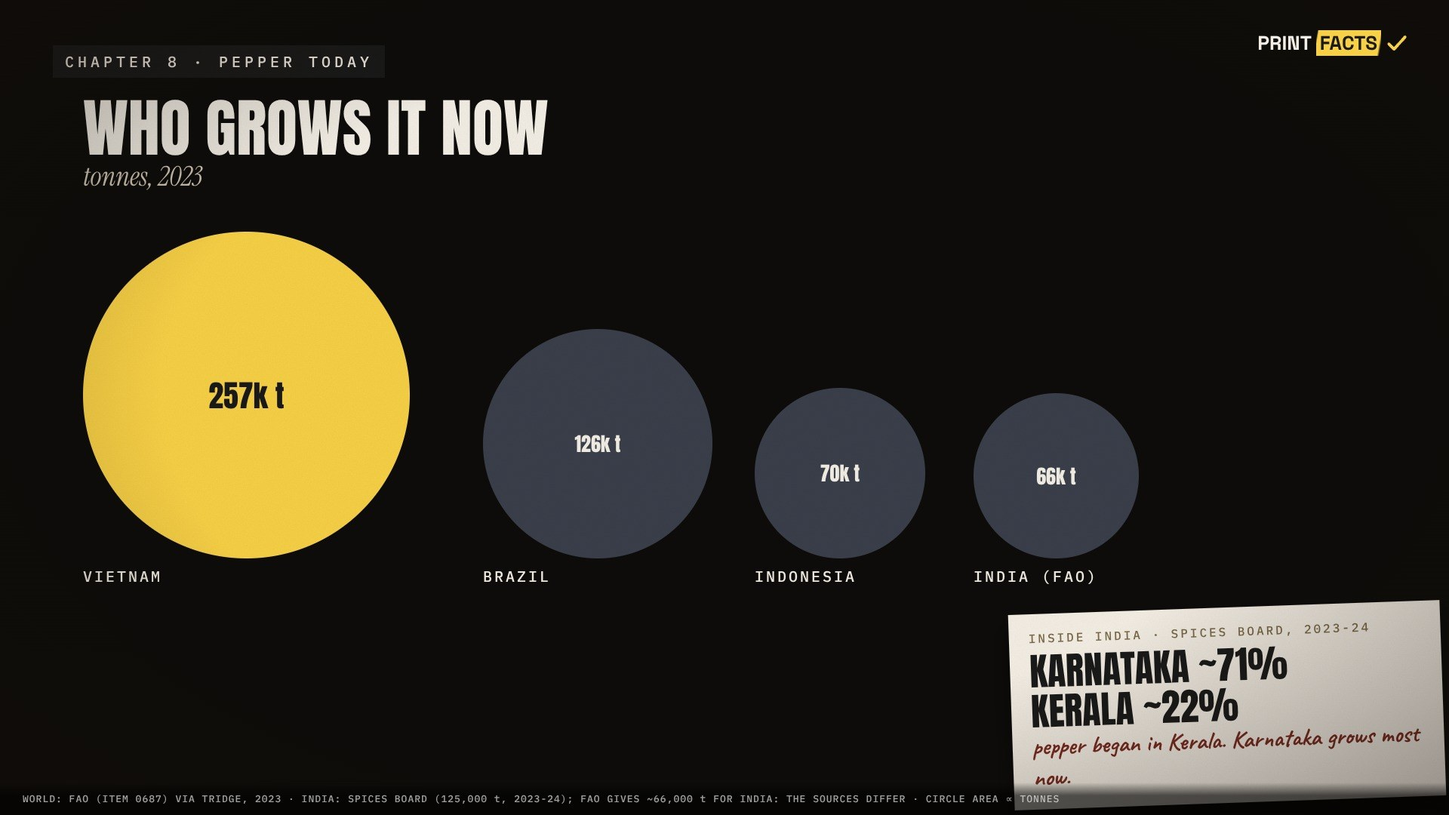
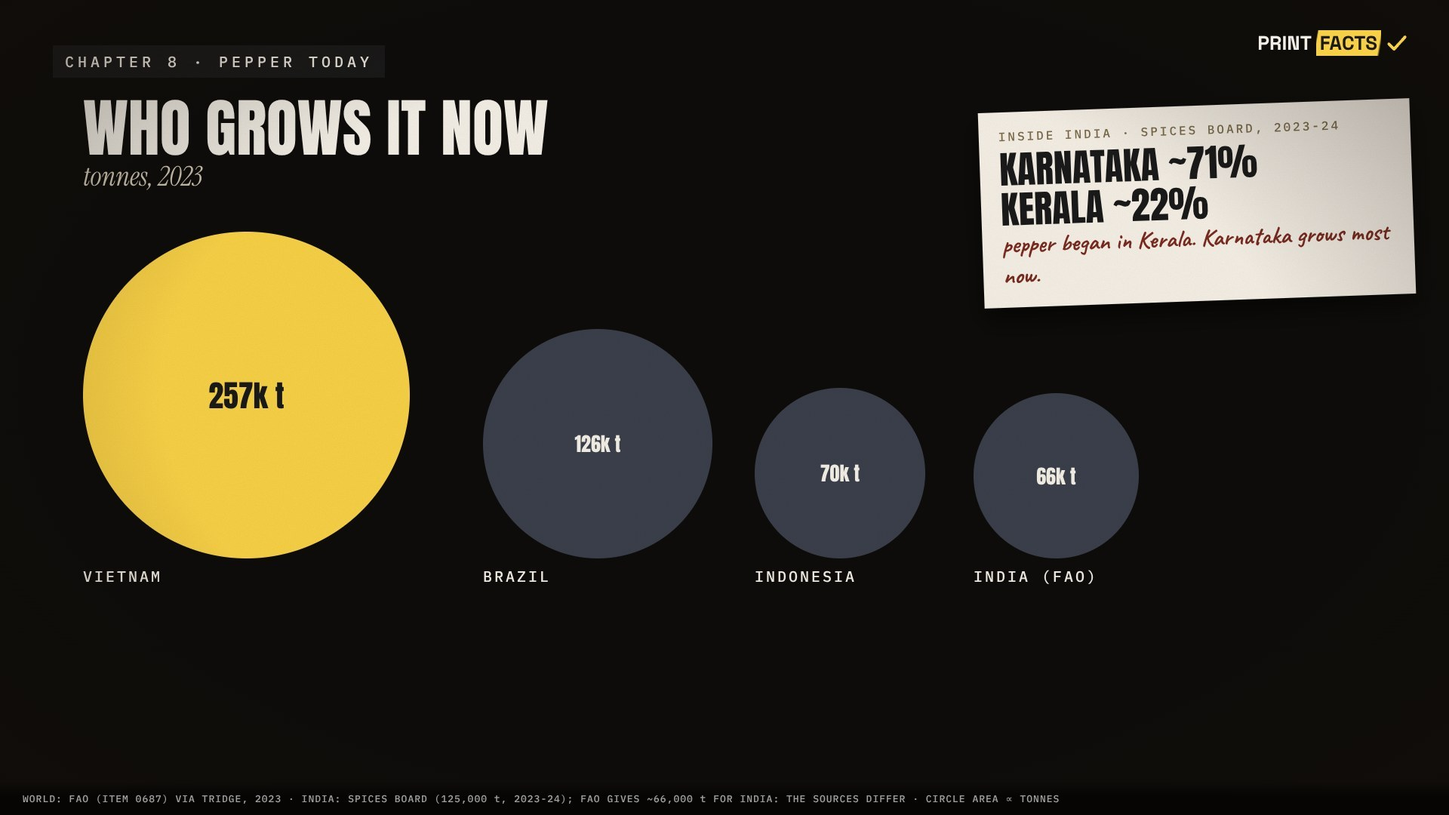
Pepper film: timeline engine on every frame (render any moment with ?t=), build-up animation for 17 shots, motion sheets M_1-3, India card moved off the circles
Claude-Session: https://claude.ai/code/session_017xrBtfYjuM4LWtQjRrahAL

Changed region(s): [[0.6562, 0.1222, 1.0, 0.3972], [0.6875, 0.7333, 1.0, 1.0]]

diff --git a/creatorforge/films/pepper-money-2026-11-15/frames.py b/creatorforge/films/pepper-money-2026-11-15/frames.py
@@ -1,4 +1,4 @@
-"""Key frames (16:9) for "Pepper Was Money", draft 3 (Vox x Johnny Harris). Numbers only from dossier.json."""
+"""Key frames (16:9) for "Pepper Was Money", draft 4; every piece carries a timeline entry (render any moment with ?t=0..1) (Vox x Johnny Harris). Numbers only from dossier.json."""
 import json
 import math
 import random
@@ -35,7 +35,30 @@ def page(body, bg=PARCH, src="", dark=False, logo=True):
             + (f'<div class="a" style="right:56px;top:44px;z-index:90">{logo_d(1.0, dark)}</div>' if logo else "")
             + f'<div class="a" style="left:0;right:0;bottom:0;padding:12px 30px;z-index:90;{"background:linear-gradient(transparent,rgba(0,0,0,.6) 40%)" if dark else ""};'
               f'font:500 13px/1.5 Plex;letter-spacing:1px;color:{col}">{src}</div>'
-            '<script>document.fonts.ready.then(()=>window.READY=window.READY||!window.WAIT)</script></body></html>')
+            + ANIM_JS + '<script>document.fonts.ready.then(()=>window.READY=window.READY||!window.WAIT)</script></body></html>')
+
+
+ANIM_JS = """<script>(function(){function run(){const q=new URLSearchParams(location.search);const T=q.has('t')?parseFloat(q.get('t')):1;
+const E=x=>1-Math.pow(1-x,3);
+document.querySelectorAll('[data-anim]').forEach(el=>{const [k,s0,e0]=el.dataset.anim.split(' ');const s=+s0,e=+e0;
+const p=e>s?Math.min(1,Math.max(0,(T-s)/(e-s))):(T>=s?1:0);const v=E(p);const st=el.style;
+if(k==='fade')st.opacity=v;
+else if(k==='up'){st.opacity=Math.min(1,p*2);st.transform=`translateY(${(1-v)*60}px)`}
+else if(k==='drop'){st.opacity=p>0?1:0;st.transform=`translateY(${-(1-v)*140}px)`}
+else if(k==='pop'){st.opacity=Math.min(1,p*3);st.transform=`scale(${.4+.6*v+Math.sin(p*Math.PI)*.08})`}
+else if(k==='slam'){st.opacity=p>0?1:0;st.transform=`scale(${1+(1-p)*.6})`}
+else if(k==='snap')st.opacity=p>=1?1:0;
+else if(k==='grow'){st.transformOrigin='50% 100%';st.transform=`scaleY(${v})`}
+else if(k==='wipe')st.clipPath=`inset(-20px ${(1-v)*100}% -20px -20px)`;
+else if(k==='draw')el.querySelectorAll('[pathLength]').forEach(pa=>{pa.style.strokeDasharray=1;pa.style.strokeDashoffset=1-v;pa.style.opacity=p>0?1:0});
+else if(k==='count'){el.textContent=Math.round(+el.dataset.to*v).toLocaleString('en-US')}
+else if(k==='fill'){const ch=el.children;const n=Math.round(ch.length*v);for(let i=0;i<ch.length;i++)ch[i].style.opacity=i<n?1:0}});}
+document.addEventListener('DOMContentLoaded',run);})()</script>"""
+
+
+def A(html, x, y, anim, extra=""):
+    """A positioned piece with a timeline entry: anim = "kind start end", t from 0 to 1 over the shot."""
+    return f'<div class="a" data-anim="{anim}" style="left:{x}px;top:{y}px;{extra}">{html}</div>'
 
 
 def a(html, x, y, extra=""):
@@ -72,27 +95,27 @@ cut = lambda f, w, extra="": f'<img src="/assets/{f}" style="width:{w}px;display
 
 # ---- cold open --------------------------------------------------------------------------------------------------------
 put("01_jar", page(a(img("corns_spoon.jpg", 1920, 1080, "filter:brightness(.6) contrast(1.05)"), 0, 0)
-                   + a('<div style="font:700 64px/1.1 Caveat;color:#F3EFE6;width:900px;transform:rotate(-2deg)">I\'d never given it a second thought.</div>', 1000, 760)
-                   + a(f'<div style="font:500 22px Plex;letter-spacing:4px;color:{SIG}">ON ALMOST EVERY TABLE IN INDIA</div>', 1004, 700),
+                   + A('<div style="font:700 64px/1.1 Caveat;color:#F3EFE6;width:900px;transform:rotate(-2deg)">I\'d never given it a second thought.</div>', 1000, 760, "fade .35 .55")
+                   + A(f'<div style="font:500 22px Plex;letter-spacing:4px;color:{SIG}">ON ALMOST EVERY TABLE IN INDIA</div>', 1004, 700, "fade .1 .25"),
                    "#000", "PHOTO: PIXABAY", dark=True))
 
 ransom_rows = [("5,000 lb", "of gold"), ("30,000 lb", "of silver"), ("4,000", "silk tunics"), ("3,000", "scarlet skins"), ("3,000 lb", "of pepper")]
-rows = "".join(f'<div style="display:flex;gap:28px;font:400 46px/1.55 Playfair;color:#2A2118"><span style="width:250px;text-align:right">{q}</span>'
-               f'<span>{hl(w) if "pepper" in w else w}</span></div>' for q, w in ransom_rows)
+rows = "".join(f'<div data-anim="up {.14 + i * .12:.2f} {.24 + i * .12:.2f}" style="display:flex;gap:28px;font:400 46px/1.55 Playfair;color:#2A2118"><span style="width:250px;text-align:right">{q}</span>'
+               f'<span>{hl(w) if "pepper" in w else w}</span></div>' for i, (q, w) in enumerate(ransom_rows))
 doc = (f'<div style="width:880px;background:#F4ECD8;padding:56px 64px;box-shadow:0 30px 60px rgba(0,0,0,.6);transform:rotate(-1.5deg)">'
        f'<div style="font:500 18px Plex;letter-spacing:4px;color:#7A6A4A">ROME · 408 CE · THE PRICE OF PEACE</div>'
        f'<div style="font:400 40px/1.3 ISerif;color:#2A2118;margin:16px 0 26px">The city agreed to pay the besieging army:</div>{rows}'
        f'<div style="font:500 15px Plex;color:#7A6A4A;margin-top:24px">From Zosimus, <i>New History</i> 5.41 (Greek, c. 500 CE); English after the 1814 translation and J. B. Bury. Page set in the studio.</div></div>')
-put("02_ransom", page(a(f'<div style="width:1920px;height:1080px;{DESK}"></div>', 0, 0) + a(doc, 120, 150)
-                      + f'<svg class="a" style="left:0;top:0;z-index:30" width="1920" height="1080"><path d="{wobble(590, 652, 230, 40, 4)}" fill="none" stroke="{RED}" stroke-width="6"/></svg>'
-                      + a(cut("scale.png", 640), 1150, 260) + a(cut("corns_spoon.jpg", 1, "display:none"), 0, 0)
-                      + a(f'<div style="font:700 56px/1.05 Caveat;color:{SIG};width:520px;transform:rotate(-3deg)">pepper.<br>in a ransom.<br>next to gold.</div>', 150, 860),
+put("02_ransom", page(a(f'<div style="width:1920px;height:1080px;{DESK}"></div>', 0, 0) + A(doc, 120, 150, "up 0 .12")
+                      + f'<svg class="a" data-anim="draw .74 .86" style="left:0;top:0;z-index:30" width="1920" height="1080"><path d="{wobble(590, 652, 230, 40, 4)}" pathLength="1" fill="none" stroke="{RED}" stroke-width="6"/></svg>'
+                      + A(cut("scale.png", 640), 1150, 260, "fade 0 .15") + a(cut("corns_spoon.jpg", 1, "display:none"), 0, 0)
+                      + A(f'<div style="font:700 56px/1.05 Caveat;color:{SIG};width:520px;transform:rotate(-3deg)">pepper.<br>in a ransom.<br>next to gold.</div>', 150, 860, "fade .88 1"),
                       "#2A1D12", "RANSOM LIST: ZOSIMUS, NEW HISTORY 5.41 (408 CE) · PHOTO: PIXABAY", dark=True))
 
 put("03_title", page(a(f'<div style="width:1920px;height:1080px;{DESK}"></div>', 0, 0)
-                     + a(cut("scale.png", 760), 580, 120)
-                     + a(f'<div style="font:400 210px/0.86 Anton;color:#F3EFE6;text-align:center;width:1920px;text-shadow:0 10px 40px rgba(0,0,0,.6)">PEPPER<br>WAS {hl("<span style=\'color:#141414\'>MONEY</span>")}</div>', 0, 330)
-                     + a('<div style="font:400 44px ISerif;color:#E8DCC2;text-align:center;width:1920px">so how does a spice become money?</div>', 0, 900),
+                     + A(cut("scale.png", 760), 580, 120, "fade 0 .25")
+                     + A(f'<div style="font:400 210px/0.86 Anton;color:#F3EFE6;text-align:center;width:1920px;text-shadow:0 10px 40px rgba(0,0,0,.6)">PEPPER<br>WAS {hl("<span style=\'color:#141414\'>MONEY</span>")}</div>', 0, 330, "slam .2 .24")
+                     + A('<div style="font:400 44px ISerif;color:#E8DCC2;text-align:center;width:1920px">so how does a spice become money?</div>', 0, 900, "fade .6 .8"),
                      "#2A1D12", "PHOTO: PIXABAY", dark=True))
 
 # ---- 1: the map table ------------------------------------------------------------------------------------------------
@@ -101,10 +124,11 @@ pin = lambda x, y: (f'<circle cx="{x}" cy="{y}" r="13" fill="{RED}"/><circle cx=
 string = f'<path d="M820 640 Q 700 520 520 420 Q 430 330 360 250" fill="none" stroke="{RED}" stroke-width="4" stroke-dasharray="1" pathLength="1" opacity=".9"/>'
 put("04_maptable", page(a(f'<div style="width:1920px;height:1080px;{DESK}"></div>', 0, 0)
                         + a(img("chart.jpg", 1500, 1107, "filter:sepia(.25) contrast(1.05)"), 210, 40, "transform:rotate(-2deg);box-shadow:0 30px 60px rgba(0,0,0,.6)")
-                        + f'<svg class="a" style="left:0;top:0;z-index:30" width="1920" height="1080">{string}{"".join(pin(x, y) for x, y, *_ in pins)}</svg>'
-                        + a(f'<div style="background:{PARCH};padding:8px 14px;font:700 40px Caveat;color:{INK};transform:rotate(3deg);box-shadow:0 8px 14px rgba(0,0,0,.4)">Malabar: the vine grows here</div>', 860, 660, "z-index:31")
+                        + f'<svg class="a" data-anim="draw .28 .75" style="left:0;top:0;z-index:30" width="1920" height="1080">{string}</svg>'
+                        + "".join(A(f'<svg width="30" height="30" viewBox="{x - 15} {y - 15} 30 30" style="display:block">{pin(x, y)}</svg>', x - 15, y - 15, f"pop {.05 + i * .08:.2f} {.12 + i * .08:.2f}", "z-index:30") for i, (x, y, *_) in enumerate(pins))
+                        + A(f'<div style="background:{PARCH};padding:8px 14px;font:700 40px Caveat;color:{INK};transform:rotate(3deg);box-shadow:0 8px 14px rgba(0,0,0,.4)">Malabar: the vine grows here</div>', 860, 660, "drop .1 .2", "z-index:31")
                         + chapter(1, "WHERE IT GROWS")
-                        + a(f'<div style="background:{INK};padding:6px 18px;font:700 46px Caveat;color:{SIG};transform:rotate(-2deg);box-shadow:6px 6px 0 rgba(0,0,0,.35)">"I started where the pepper starts. On a map."</div>', 120, 930, "z-index:31"),
+                        + A(f'<div style="background:{INK};padding:6px 18px;font:700 46px Caveat;color:{SIG};transform:rotate(-2deg);box-shadow:6px 6px 0 rgba(0,0,0,.35)">"I started where the pepper starts. On a map."</div>', 120, 930, "fade .8 .92", "z-index:31"),
                         "#2A1D12", "PINS AND STRING PLACED BY HAND, POSITIONS APPROXIMATE · MAP: LINSCHOTEN, 1596, 'MAP OUTLINING THE MARITIME COASTS OF ARABIA FELIX…', LIBRARY OF CONGRESS (PUBLIC DOMAIN BY AGE) · A DATED HISTORICAL DOCUMENT, NOT A MODERN BOUNDARY", dark=True))
 
 # ---- 1: the vine and the three peppers -------------------------------------------------------------------------------
@@ -112,23 +136,23 @@ card = lambda f, t, s, rot, crop="": (f'<div style="width:400px;background:#FBF8
                                       f'{img(f, 372, 300, crop)}<div style="font:400 44px Anton;color:{INK};margin-top:10px">{t}</div><div style="font:700 30px Caveat;color:#555">{s}</div></div>')
 put("05_three", page(a(img("vine.jpg", 1920, 1080, "filter:brightness(.45) blur(2px)"), 0, 0)
                      + chapter(1, "WHERE IT GROWS")
-                     + a(f'<div style="font:400 92px/0.95 Anton;color:#F3EFE6">ONE VINE, THREE PEPPERS</div><div style="font:400 40px ISerif;color:#E8DCC2;margin-top:8px"><i>Piper nigrum</i>, from India\'s Western Ghats</div>', 90, 130)
-                     + a(card("corns_spoon.jpg", "BLACK", "unripe, dried", -3), 160, 420) + a(card("corns.jpg", "WHITE", "riper, outer skin removed", 2), 760, 400)
-                     + a(card("green.jpg", "GREEN", "unripe, preserved", -2), 1360, 430),
+                     + A(f'<div style="font:400 92px/0.95 Anton;color:#F3EFE6">ONE VINE, THREE PEPPERS</div><div style="font:400 40px ISerif;color:#E8DCC2;margin-top:8px"><i>Piper nigrum</i>, from India\'s Western Ghats</div>', 90, 130, "up 0 .1")
+                     + A(card("corns_spoon.jpg", "BLACK", "unripe, dried", -3), 160, 420, "drop .15 .27") + A(card("corns.jpg", "WHITE", "riper, outer skin removed", 2), 760, 400, "drop .4 .52")
+                     + A(card("green.jpg", "GREEN", "unripe, preserved", -2), 1360, 430, "drop .65 .77"),
                      "#000", "BOTANY: ROYAL BOTANIC GARDENS KEW, PLANTS OF THE WORLD ONLINE · PHOTOS: PIXABAY", dark=True))
 
 # ---- 2: Pliny's prices -----------------------------------------------------------------------------------------------
 bars = [("LONG", 15), ("WHITE", 7), ("BLACK", 4)]
-bh = "".join(a(f'<div style="width:220px;height:{v * 34}px;background:{SIG if n == "BLACK" else "#3A3F4B"}"></div>'
-               f'<div style="font:400 64px Anton;color:{INK};text-align:center;width:220px;position:absolute;top:-80px">{v}</div>'
-               f'<div style="font:500 24px Plex;letter-spacing:4px;color:{INK};text-align:center;width:220px;margin-top:12px">{n}</div>', 900 + i * 300, 900 - v * 34)
+bh = "".join(A(f'<div style="width:220px;height:{v * 34}px;background:{SIG if n == "BLACK" else "#3A3F4B"}"></div>', 900 + i * 300, 900 - v * 34, f"grow {.38 + i * .17:.2f} {.52 + i * .17:.2f}")
+             + A(f'<div style="font:400 64px Anton;color:{INK};text-align:center;width:220px">{v}</div>', 900 + i * 300, 900 - v * 34 - 82, f"fade {.5 + i * .17:.2f} {.55 + i * .17:.2f}")
+             + a(f'<div style="font:500 24px Plex;letter-spacing:4px;color:{INK};text-align:center;width:220px">{n}</div>', 900 + i * 300, 916)
              for i, (n, v) in enumerate(bars))
 put("06_pliny", page(chapter(2, "ROME PAYS BY THE POUND")
-                     + a(f'<div style="width:620px;background:#F4ECD8;padding:40px 44px;box-shadow:0 22px 40px rgba(0,0,0,.3);transform:rotate(-2deg)">'
+                     + A(f'<div style="width:620px;background:#F4ECD8;padding:40px 44px;box-shadow:0 22px 40px rgba(0,0,0,.3);transform:rotate(-2deg)">'
                          f'<div style="font:500 16px Plex;letter-spacing:4px;color:#7A6A4A">PLINY THE ELDER · NATURAL HISTORY 12.14 · c. 77 CE</div>'
-                         f'<div style="font:400 40px/1.35 ISerif;color:#2A2118;margin-top:16px">"…we buy them by weight, {hl("just as if they were so much gold or silver.")}"</div></div>', 110, 200)
-                     + a('<div style="font:700 50px Caveat;color:#7A2A20;transform:rotate(-3deg)">"I went looking for receipts.<br>Rome left some."</div>', 140, 640)
-                     + a(f'<div style="font:500 22px Plex;letter-spacing:4px;color:{INK}">DENARII PER ROMAN POUND</div>', 900, 240)
+                         f'<div style="font:400 40px/1.35 ISerif;color:#2A2118;margin-top:16px">"…we buy them by weight, {hl("just as if they were so much gold or silver.")}"</div></div>', 110, 200, "up 0 .12")
+                     + A('<div style="font:700 50px Caveat;color:#7A2A20;transform:rotate(-3deg)">"I went looking for receipts.<br>Rome left some."</div>', 140, 640, "fade .2 .32")
+                     + A(f'<div style="font:500 22px Plex;letter-spacing:4px;color:{INK}">DENARII PER ROMAN POUND</div>', 900, 240, "fade .3 .36")
                      + bh + a(f'<div style="width:880px;height:4px;background:{INK}"></div>', 880, 900),
                      PARCH, "PRICES: PLINY, NATURAL HISTORY 12.14 (12.28–29) · TRANSLATION: BOSTOCK &amp; RILEY · BARS FROM ZERO"))
 
@@ -136,21 +160,21 @@ put("06_pliny", page(chapter(2, "ROME PAYS BY THE POUND")
 sacks = "".join(f'<div style="position:absolute;left:{(i % 28) * 34}px;top:{(i // 28) * 34}px;width:26px;height:26px;border-radius:6px;background:{BLK}"></div>' for i in range(280))
 put("07_myth", page(chapter(2, "ROME PAYS BY THE POUND")
                     + a(f'<div style="font:400 84px/0.95 Anton;color:{INK};width:900px">"WORTH ITS WEIGHT IN GOLD"</div>', 90, 140)
-                    + a(f'<div style="border:8px solid {RED};color:{RED};font:400 120px/1 Anton;letter-spacing:8px;padding:4px 30px;transform:rotate(-10deg);background:rgba(239,230,210,.7)">MYTH</div>', 1060, 110)
-                    + a(cut("gold.png", 300), 110, 420)
-                    + a(f'<div style="font:400 56px Anton;color:{INK}">1 POUND OF GOLD</div><div style="font:500 22px Plex;color:#555">≈ 1,125 denarii</div>', 110, 760)
-                    + a(f'<div style="font:400 64px Anton;color:{INK}">=</div>', 520, 520)
-                    + a(f'<div style="position:relative;width:960px;height:340px">{sacks}</div>', 640, 400)
-                    + a(f'<div style="font:400 56px Anton;color:{INK}">{hl("280")} POUNDS OF BLACK PEPPER</div><div style="font:500 22px Plex;color:#555">at 4 denarii a pound</div>', 640, 760)
-                    + a(f'<div style="font:700 46px Caveat;color:#7A2A20;transform:rotate(-2deg)">sold like gold. not priced like gold.</div>', 640, 870),
+                    + A(f'<div style="border:8px solid {RED};color:{RED};font:400 120px/1 Anton;letter-spacing:8px;padding:4px 30px;transform:rotate(-10deg);background:rgba(239,230,210,.7)">MYTH</div>', 1060, 110, "slam .9 .93")
+                    + A(cut("gold.png", 300), 110, 420, "pop .1 .2")
+                    + A(f'<div style="font:400 56px Anton;color:{INK}">1 POUND OF GOLD</div><div style="font:500 22px Plex;color:#555">≈ 1,125 denarii</div>', 110, 760, "fade .18 .26")
+                    + A(f'<div style="font:400 64px Anton;color:{INK}">=</div>', 520, 520, "fade .26 .3")
+                    + a(f'<div data-anim="fill .3 .78" style="position:relative;width:960px;height:340px">{sacks}</div>', 640, 400)
+                    + A(f'<div style="font:400 56px Anton;color:{INK}">{hl("280")} POUNDS OF BLACK PEPPER</div><div style="font:500 22px Plex;color:#555">at 4 denarii a pound</div>', 640, 760, "fade .76 .82")
+                    + A(f'<div style="font:700 46px Caveat;color:#7A2A20;transform:rotate(-2deg)">sold like gold. not priced like gold.</div>', 640, 870, "fade .82 .88"),
                     PARCH, "GOLD: 45 AUREI TO THE ROMAN POUND AFTER NERO, 25 DENARII EACH: OUR CALCULATION · PEPPER: PLINY, NATURAL HISTORY 12.14 · ONE SQUARE = ONE POUND OF PEPPER"))
 
 # ---- 2: the drain ----------------------------------------------------------------------------------------------------
 put("08_drain", page(chapter(2, "ROME PAYS BY THE POUND")
-                     + a(f'<div style="font:400 40px ISerif;color:#CFC6B4">Every year, Pliny says, India took at least</div>', 130, 260)
-                     + a(f'<div style="font:400 230px/1 Anton;color:{SIG};text-shadow:0 0 40px rgba(247,208,70,.5)">50,000,000</div><div style="font:400 64px Anton;color:#F3EFE6">SESTERCES</div>', 120, 330)
-                     + a(f'<div style="font:500 24px/1.5 Plex;color:#CFC6B4;width:640px">out of the Roman Empire, "sold with us at a hundred times its prime cost".</div>', 120, 760)
-                     + a(f'<div style="font:500 20px Plex;letter-spacing:4px;color:{SIG}">INDIA ALONE · NATURAL HISTORY 6.26</div>', 1250, 300)
+                     + A(f'<div style="font:400 40px ISerif;color:#CFC6B4">Every year, Pliny says, India took at least</div>', 130, 260, "fade 0 .1")
+                     + a(f'<div style="font:400 230px/1 Anton;color:{SIG};text-shadow:0 0 40px rgba(247,208,70,.5)"><span data-anim="count .1 .6" data-to="50000000">50,000,000</span></div><div data-anim="fade .58 .66" style="font:400 64px Anton;color:#F3EFE6">SESTERCES</div>', 120, 330)
+                     + A(f'<div style="font:500 24px/1.5 Plex;color:#CFC6B4;width:640px">out of the Roman Empire, "sold with us at a hundred times its prime cost".</div>', 120, 760, "fade .66 .8")
+                     + A(f'<div style="font:500 20px Plex;letter-spacing:4px;color:{SIG}">INDIA ALONE · NATURAL HISTORY 6.26</div>', 1250, 300, "fade .8 .9")
                      + a(cut("corns_spoon.jpg", 1, "display:none"), 0, 0),
                      "#0D0C0A", "SOURCE: PLINY, NATURAL HISTORY 6.26 (6.101), FORDHAM ANCIENT HISTORY SOURCEBOOK · AN OLDER TRANSLATION READS 550 MILLION; MODERN READINGS GIVE 50 MILLION", dark=True))
 
@@ -160,21 +184,21 @@ papy = (f'<div style="width:760px;height:600px;background:linear-gradient(135deg
         + "".join(f'<div style="position:absolute;left:{60 + (i % 3) * 8}px;top:{60 + i * 34}px;width:{560 + random.Random(i).randint(-80, 60)}px;height:6px;background:rgba(60,40,15,.45);border-radius:3px"></div>' for i in range(15))
         + f'<div style="position:absolute;left:40px;bottom:24px;font:500 16px Plex;color:#3A2A12;background:rgba(244,236,216,.85);padding:6px 10px">RECONSTRUCTION · THE ORIGINAL IS P.Vindob. G 40822, AUSTRIAN NATIONAL LIBRARY</div></div>')
 put("09_papyrus", page(a(f'<div style="width:1920px;height:1080px;{DESK}"></div>', 0, 0) + chapter(2, "ROME PAYS BY THE POUND")
-                       + a(papy, 120, 220)
-                       + a(f'<div style="font:700 64px/1.05 Caveat;color:{SIG};transform:rotate(-3deg)">"And then I found this."</div>', 1000, 170)
-                       + a(f'<div style="width:760px;background:{PARCH};padding:30px 34px;box-shadow:0 20px 34px rgba(0,0,0,.5)">'
+                       + A(papy, 120, 220, "up 0 .15")
+                       + A(f'<div style="font:700 64px/1.05 Caveat;color:{SIG};transform:rotate(-3deg)">"And then I found this."</div>', 1000, 170, "fade .2 .3")
+                       + A(f'<div style="width:760px;background:{PARCH};padding:30px 34px;box-shadow:0 20px 34px rgba(0,0,0,.5)">'
                            f'<div style="font:500 18px Plex;letter-spacing:4px;color:#7A6A4A">ONE SHIP FROM MUZIRIS · 2ND CENTURY CE</div>'
                            f'<div style="font:400 84px/1 Anton;color:{INK};margin-top:10px">≈ 1,150 TALENTS</div><div style="font:400 34px ISerif;color:#555">close to seven million drachmas</div>'
-                           f'<div style="display:flex;height:46px;margin-top:22px"><div style="width:66%;background:{SIG}"></div><div style="width:34%;background:#BDB4A0"></div></div>'
-                           f'<div style="font:500 18px Plex;color:#555;margin-top:8px">PEPPER: AT LEAST ⅔ (A SCHOLARLY ESTIMATE)</div></div>', 1000, 360) + tape(1300, 342, -4),
+                           f'<div style="display:flex;height:46px;margin-top:22px;background:#BDB4A0"><div data-anim="wipe .58 .78" style="width:66%;background:{SIG}"></div></div>'
+                           f'<div style="font:500 18px Plex;color:#555;margin-top:8px">PEPPER: AT LEAST ⅔ (A SCHOLARLY ESTIMATE)</div></div>', 1000, 360, "up .36 .5") + tape(1300, 342, -4).replace('class="a"', 'class="a" data-anim="fade .48 .52"', 1),
                        "#2A1D12", "THE MUZIRIS PAPYRUS: DE ROMANIS (ISAW PAPERS 8; OUP 2020); CASSON, ZPE 1990 · VALUE READINGS 1,151–1,155 TALENTS · PAPYRUS SHOWN AS A STUDIO RECONSTRUCTION", dark=True))
 
 # ---- 3: the three rules ----------------------------------------------------------------------------------------------
-rule = lambda n, t, s: (f'<div style="display:flex;align-items:center;gap:26px;margin-bottom:34px"><svg width="70" height="62" viewBox="0 0 34 30"><path d="M3 16 L12 25 L31 4" fill="none" stroke="{SIG}" stroke-width="5" stroke-linecap="round"/></svg>'
+rule = lambda n, t, s: (f'<div data-anim="up {.12 + n * .2:.2f} {.22 + n * .2:.2f}" style="display:flex;align-items:center;gap:26px;margin-bottom:34px"><svg data-anim="draw {.24 + n * .2:.2f} {.3 + n * .2:.2f}" width="70" height="62" viewBox="0 0 34 30"><path d="M3 16 L12 25 L31 4" pathLength="1" fill="none" stroke="{SIG}" stroke-width="5" stroke-linecap="round"/></svg>'
                         f'<div><div style="font:400 64px/1 Anton;color:#F3EFE6">{n}. {t}</div><div style="font:400 34px ISerif;color:#CFC6B4">{s}</div></div></div>')
 put("10_rules", page(a(f'<div style="width:1920px;height:1080px;background:#22302A;background-image:radial-gradient(rgba(255,255,255,.05) 1px,transparent 1.5px);background-size:6px 6px"></div>', 0, 0)
                      + chapter(3, "WHAT MAKES MONEY, MONEY")
-                     + a(f'<div style="font:700 56px Caveat;color:#ECEADF">What does money need to do?</div>', 120, 170)
+                     + A(f'<div style="font:700 56px Caveat;color:#ECEADF">What does money need to do?</div>', 120, 170, "fade 0 .1")
                      + a(rule(1, "IT LASTS", "dried pepper keeps for years") + rule(2, "SMALL BUT VALUABLE", "a sack is a fortune you can carry") + rule(3, "EVERYONE ACCEPTS IT", "and everybody wanted pepper"), 120, 300)
                      + a(cut("corns.png", 520), 1260, 380),
                      "#22302A", "EXPLAINER DRAWN IN THE STUDIO · PHOTO: PIXABAY", dark=True))
@@ -183,13 +207,13 @@ put("10_rules", page(a(f'<div style="width:1920px;height:1080px;background:#2230
 tl = [("c.1000", "LONDON", "10 lb pepper owed to the king at Christmas and Easter"), ("1156", "GENOA", "a debt payable in pepper or in coin"),
       ("1194", "RAMSEY ABBEY", "rent: 1,000 eels, 2 lb pepper, 2 lb ginger, scarlet trousers"), ("c.1270", "KENT", "half a pound of pepper a year for land"),
       ("1286", "SCOTLAND", "a deal settled with one pound of pepper")]
-row = "".join(a(f'<div style="width:300px"><div style="width:22px;height:22px;border-radius:50%;background:{RED};margin-bottom:16px"></div>'
+row = "".join(A(f'<div style="width:300px"><div style="width:22px;height:22px;border-radius:50%;background:{RED};margin-bottom:16px"></div>'
                 f'<div style="font:400 50px Anton;color:{INK}">{y}</div><div style="font:500 20px Plex;letter-spacing:3px;color:#7A2A20">{p}</div>'
-                f'<div style="font:700 34px/1.1 Caveat;color:#333;margin-top:6px">{t}</div></div>', 110 + i * 350, 600) for i, (y, p, t) in enumerate(tl))
+                f'<div style="font:700 34px/1.1 Caveat;color:#333;margin-top:6px">{t}</div></div>', 110 + i * 350, 600, f"up {.16 + i * .15:.2f} {.24 + i * .15:.2f}") for i, (y, p, t) in enumerate(tl))
 put("11_rents", page(chapter(4, "PAYING THE RENT IN PEPPER")
-                     + a(f'<div style="font:400 92px/0.95 Anton;color:{INK};width:1300px">NOT BOUGHT WITH MONEY.<br>{hl("PAID AS MONEY.")}</div>', 110, 160)
-                     + a(f'<div style="width:1700px;height:4px;background:{INK}"></div>', 110, 610) + row
-                     + a(cut("ginger.png", 260), 1560, 300),
+                     + A(f'<div style="font:400 92px/0.95 Anton;color:{INK};width:1300px">NOT BOUGHT WITH MONEY.<br>{hl("PAID AS MONEY.")}</div>', 110, 160, "up 0 .1")
+                     + A(f'<div style="width:1700px;height:4px;background:{INK}"></div>', 110, 610, "wipe .12 .85") + row
+                     + A(cut("ginger.png", 260), 1560, 300, "pop .46 .54"),
                      PARCH, "SOURCES: ANGLO-SAXON LONDON TOLL CODE ('IV ÆTHELRED', DATE DISPUTED); HUNT ET AL., DOC. 10.1 (GENOA 1156); BBC HISTORY MAGAZINE (RAMSEY 1194); BODLEIAN CHARTER 113275 (KENT); PEOPLE OF MEDIEVAL SCOTLAND (1286) · PHOTO: PIXABAY"))
 
 # ---- 4: the Kent charter ---------------------------------------------------------------------------------------------
@@ -198,24 +222,24 @@ charter = (f'<div style="width:820px;height:560px;background:#EADFC4;box-shadow:
            + f'<div style="position:absolute;right:60px;bottom:-40px;width:110px;height:110px;border-radius:50%;background:radial-gradient(circle at 40% 35%,#C0392B,#7B1D14)"></div>'
            + f'<div style="position:absolute;left:30px;bottom:18px;font:500 15px Plex;color:#3A2A12">RECONSTRUCTION · THE ORIGINAL IS BODLEIAN CHARTER 113275</div></div>')
 put("12_charter", page(a(f'<div style="width:1920px;height:1080px;{DESK}"></div>', 0, 0) + chapter(4, "PAYING THE RENT IN PEPPER")
-                       + a(charter, 120, 230)
-                       + f'<svg class="a" style="left:0;top:0;z-index:30" width="1920" height="1080"><path d="{wobble(520, 560, 300, 50, 7)}" fill="none" stroke="{SIG}" stroke-width="6"/></svg>'
-                       + a(f'<div style="width:700px;background:{PARCH};padding:30px 34px;box-shadow:0 20px 34px rgba(0,0,0,.5)">'
+                       + A(charter, 120, 230, "up 0 .15")
+                       + f'<svg class="a" data-anim="draw .25 .42" style="left:0;top:0;z-index:30" width="1920" height="1080"><path d="{wobble(520, 560, 300, 50, 7)}" pathLength="1" fill="none" stroke="{SIG}" stroke-width="6"/></svg>'
+                       + A(f'<div style="width:700px;background:{PARCH};padding:30px 34px;box-shadow:0 20px 34px rgba(0,0,0,.5)">'
                            f'<div style="font:500 18px Plex;letter-spacing:4px;color:#7A6A4A">KENT · c. 1270</div><div style="font:400 72px/1 Anton;color:{INK};margin-top:8px">RENT: ½ LB OF PEPPER</div>'
-                           f'<div style="font:400 34px ISerif;color:#555">a year, for a plot of land, granted to Tonbridge Priory</div></div>', 1080, 300)
-                       + a(f'<div style="font:700 56px/1.1 Caveat;color:{SIG};transform:rotate(-2deg);width:700px">"I looked it up: the charter still exists. It\'s in Oxford."</div>', 1090, 620),
+                           f'<div style="font:400 34px ISerif;color:#555">a year, for a plot of land, granted to Tonbridge Priory</div></div>', 1080, 300, "up .48 .6")
+                       + A(f'<div style="font:700 56px/1.1 Caveat;color:{SIG};transform:rotate(-2deg);width:700px">"I looked it up: the charter still exists. It\'s in Oxford."</div>', 1090, 620, "fade .74 .86"),
                        "#2A1D12", "SOURCE: BODLEIAN LIBRARY, MEDIEVAL CHARTERS, CHARTER 113275 (DATE c. 1270, MARKED UNCERTAIN) · CHARTER SHOWN AS A STUDIO RECONSTRUCTION", dark=True))
 
 # ---- 5: the markup on the map table ---------------------------------------------------------------------------------
-tag = lambda x, y, t, rot: a(f'<div style="background:{PARCH};padding:8px 14px;font:700 40px Caveat;color:{INK};transform:rotate({rot}deg);box-shadow:0 8px 14px rgba(0,0,0,.4);white-space:nowrap">{t}</div>', x, y, "z-index:31")
+tag = lambda x, y, t, rot, an="fade 0 0": A(f'<div style="background:{PARCH};padding:8px 14px;font:700 40px Caveat;color:{INK};transform:rotate({rot}deg);box-shadow:0 8px 14px rgba(0,0,0,.4);white-space:nowrap">{t}</div>', x, y, an, "z-index:31")
 put("13_markup", page(a(f'<div style="width:1920px;height:1080px;{DESK}"></div>', 0, 0)
                       + a(img("chart.jpg", 1500, 1107, "filter:sepia(.25) contrast(1.05) brightness(.9)"), 210, 40, "transform:rotate(-2deg);box-shadow:0 30px 60px rgba(0,0,0,.6)")
-                      + f'<svg class="a" style="left:0;top:0;z-index:30" width="1920" height="1080">{string}{"".join(pin(x, y) for x, y, *_ in pins)}'
-                        f'<path d="M360 250 Q 300 160 230 110" fill="none" stroke="{RED}" stroke-width="4"/>{pin(230, 110)}</svg>'
-                      + tag(860, 650, "Calicut: ~3 ducats", 3) + tag(110, 140, "Europe: ~80 ducats", -3) + tag(380, 290, "Alexandria → Venice: 42 → 56", 2)
+                      + f'<svg class="a" data-anim="draw .05 .62" style="left:0;top:0;z-index:30" width="1920" height="1080">'
+                        f'<path d="M820 640 Q 700 520 520 420 Q 430 330 360 250 Q 300 160 230 110" pathLength="1" fill="none" stroke="{RED}" stroke-width="4" opacity=".9"/>{"".join(pin(x, y) for x, y, *_ in pins)}{pin(230, 110)}</svg>'
+                      + tag(860, 650, "Calicut: ~3 ducats", 3, "drop .08 .16") + tag(380, 290, "Alexandria → Venice: 42 → 56", 2, "drop .4 .48") + tag(110, 140, "Europe: ~80 ducats", -3, "drop .6 .68")
                       + chapter(5, "THE MARKUP")
-                      + a(f'<div style="background:{SIG};color:{INK};padding:14px 22px;transform:rotate(-2deg)"><div style="font:400 64px/1 Anton">~25× ON THE WAY</div>'
-                          f'<div style="font:500 18px Plex;letter-spacing:3px">PER HUNDREDWEIGHT, 15TH CENTURY (UNESCO ESTIMATE)</div></div>', 1140, 820, "z-index:31"),
+                      + A(f'<div style="background:{SIG};color:{INK};padding:14px 22px;transform:rotate(-2deg)"><div style="font:400 64px/1 Anton">~25× ON THE WAY</div>'
+                          f'<div style="font:500 18px Plex;letter-spacing:3px">PER HUNDREDWEIGHT, 15TH CENTURY (UNESCO ESTIMATE)</div></div>', 1140, 820, "slam .74 .77", "z-index:31"),
                       "#2A1D12", "PRICES: UNESCO SILK ROADS, 'THE ARAB MONOPOLY' (ESTIMATE); LANE, JOURNAL OF ECONOMIC HISTORY 28 (1968), 1497 · MAP: LINSCHOTEN 1596, LIBRARY OF CONGRESS", dark=True))
 
 # ---- 7: too much pepper + the peppercorn rent -----------------------------------------------------------------------
@@ -223,15 +247,15 @@ pts = [(0, 100), (1, 104), (2, 98), (3, 92), (4, 80), (5, 66), (6, 58), (7, 52)]
 X = lambda i: 120 + i * 110; Y = lambda v: 860 - v * 3
 line = "M" + " L".join(f"{X(i)} {Y(v)}" for i, v in pts)
 put("14_fall", page(chapter(7, "TOO MUCH PEPPER")
-                    + a(f'<div style="font:400 92px/0.95 Anton;color:{INK};width:900px">MORE SHIPS,<br>MORE PEPPER,<br>{hl("LOWER PRICES")}</div>', 110, 150)
-                    + f'<svg class="a" style="left:0;top:0" width="1920" height="1080"><path d="{line}" fill="none" stroke="{RED}" stroke-width="7"/>'
+                    + A(f'<div style="font:400 92px/0.95 Anton;color:{INK};width:900px">MORE SHIPS,<br>MORE PEPPER,<br>{hl("LOWER PRICES")}</div>', 110, 150, "up 0 .1")
+                    + f'<svg class="a" data-anim="draw .12 .5" style="left:0;top:0" width="1920" height="1080"><path d="{line}" pathLength="1" fill="none" stroke="{RED}" stroke-width="7"/>'
                       f'<line x1="110" y1="860" x2="920" y2="860" stroke="{INK}" stroke-width="3"/></svg>'
                     + a(f'<div style="font:500 18px Plex;letter-spacing:3px;color:#555">ILLUSTRATIVE TREND · 1500s → 1600s</div>', 120, 880)
-                    + a(f'<div style="width:760px;background:#FBF9F3;padding:36px 40px;box-shadow:0 22px 40px rgba(0,0,0,.25);transform:rotate(1.5deg)">'
+                    + A(f'<div style="width:760px;background:#FBF9F3;padding:36px 40px;box-shadow:0 22px 40px rgba(0,0,0,.25);transform:rotate(1.5deg)">'
                         f'<div style="font:500 16px Plex;letter-spacing:3px;color:#7A6A4A">LEASEHOLD REFORM (GROUND RENT) ACT 2022 · UK</div>'
                         f'<div style="font:400 44px/1.3 ISerif;color:{INK};margin-top:14px">a "peppercorn rent" means {hl("an annual rent of one peppercorn")}</div>'
-                        f'<div style="font:700 36px/1.15 Caveat;color:#7A2A20;margin-top:22px">"…even if the person paid doesn\'t like pepper." Chappell v Nestlé, 1960</div></div>', 1040, 260)
-                    + a(cut("corns.png", 160), 1650, 760),
+                        f'<div style="font:700 36px/1.15 Caveat;color:#7A2A20;margin-top:22px">"…even if the person paid doesn\'t like pepper." Chappell v Nestlé, 1960</div></div>', 1040, 260, "up .52 .64")
+                    + A(cut("corns.png", 160), 1650, 760, "pop .64 .72"),
                     PARCH, "TREND: PRICES FELL IN THE 1600s (ENCYCLOPEDIA.COM, 'SPICES AND THE SPICE TRADE'); LINE IS ILLUSTRATIVE, NOT A PRICE SERIES · LAW: LEGISLATION.GOV.UK, UKPGA 2022 c. 1; CHAPPELL &amp; CO v NESTLÉ [1960] AC 87"))
 
 # ---- 8: today -------------------------------------------------------------------------------------------------------
@@ -240,27 +264,27 @@ bub = ""
 xs = [110, 640, 1000, 1290]
 for i, (n, v) in enumerate(prod):
     dia = 2 * math.sqrt(v) * 13.5
-    bub += a(f'<div style="width:{dia:.0f}px;height:{dia:.0f}px;border-radius:50%;background:{SIG if i == 0 else "#3A3F4B"};display:flex;align-items:center;justify-content:center;'
+    bub += A(f'<div style="width:{dia:.0f}px;height:{dia:.0f}px;border-radius:50%;background:{SIG if i == 0 else "#3A3F4B"};display:flex;align-items:center;justify-content:center;'
              f'font:400 {40 if i == 0 else 26}px Anton;color:{INK if i == 0 else "#F3EFE6"}">{v:.0f}k t</div><div style="font:500 20px Plex;letter-spacing:3px;color:#F3EFE6;margin-top:10px">{n}</div>',
-             xs[i], 300 + (440 - dia))
+             xs[i], 300 + (440 - dia), f"pop {.15 + i * .15:.2f} {.25 + i * .15:.2f}")
 put("15_today", page(chapter(8, "PEPPER TODAY")
                      + a(f'<div style="font:400 84px/0.95 Anton;color:#F3EFE6">WHO GROWS IT NOW</div><div style="font:400 36px ISerif;color:#CFC6B4">tonnes, 2023</div>', 110, 130)
                      + bub
-                     + a(f'<div style="width:520px;background:{PARCH};padding:22px 26px;box-shadow:0 18px 30px rgba(0,0,0,.5);transform:rotate(-2deg)">'
+                     + A(f'<div style="width:520px;background:{PARCH};padding:22px 26px;box-shadow:0 18px 30px rgba(0,0,0,.5);transform:rotate(-2deg)">'
                          f'<div style="font:500 16px Plex;letter-spacing:3px;color:#7A6A4A">INSIDE INDIA · SPICES BOARD, 2023-24</div>'
                          f'<div style="font:400 50px/1.05 Anton;color:{INK};margin-top:8px">KARNATAKA ~71%<br>KERALA ~22%</div>'
-                         f'<div style="font:700 32px Caveat;color:#7A2A20">pepper began in Kerala. Karnataka grows most now.</div></div>', 1340, 805),
+                         f'<div style="font:700 32px Caveat;color:#7A2A20">pepper began in Kerala. Karnataka grows most now.</div></div>', 1300, 140, "up .78 .9"),
                      "#0D0C0A", "WORLD: FAO (ITEM 0687) VIA TRIDGE, 2023 · INDIA: SPICES BOARD (125,000 t, 2023-24); FAO GIVES ~66,000 t FOR INDIA: THE SOURCES DIFFER · CIRCLE AREA ∝ TONNES", dark=True))
 
 put("16_kochi", page(a(img("sacks.jpg", 1920, 1080, "filter:brightness(.62) saturate(1.05)"), 0, 0) + chapter(8, "PEPPER TODAY")
-                     + a(f'<div style="background:{SIG};color:{INK};padding:18px 28px;transform:rotate(-2deg)"><div style="font:500 22px Plex;letter-spacing:4px">KOCHI · BLACK PEPPER · WHOLESALE</div>'
-                         f'<div style="font:400 150px/1 Anton">₹695 / KG</div><div style="font:500 20px Plex;letter-spacing:2px">UNGARBLED, 22 AUG 2026 · "INDICATIVE"</div></div>', 120, 560)
-                     + a(f'<div style="font:700 56px/1.1 Caveat;color:#F3EFE6;width:760px;transform:rotate(-2deg)">Rome once paid a ransom with this.</div>', 1060, 220),
+                     + A(f'<div style="background:{SIG};color:{INK};padding:18px 28px;transform:rotate(-2deg)"><div style="font:500 22px Plex;letter-spacing:4px">KOCHI · BLACK PEPPER · WHOLESALE</div>'
+                         f'<div style="font:400 150px/1 Anton">₹695 / KG</div><div style="font:500 20px Plex;letter-spacing:2px">UNGARBLED, 22 AUG 2026 · "INDICATIVE"</div></div>', 120, 560, "slam .45 .48")
+                     + A(f'<div style="font:700 56px/1.1 Caveat;color:#F3EFE6;width:760px;transform:rotate(-2deg)">Rome once paid a ransom with this.</div>', 1060, 220, "fade .12 .28"),
                      "#000", "PRICE: SPICES BOARD INDIA, 'SPICE MARKET' WEEKLY, 22.08.2026 (LATEST INDEXED; REFRESH BEFORE AIR) · PHOTO: PIXABAY (SPICE SACKS, ILLUSTRATIVE)", dark=True))
 
 put("17_end", page(a(img("corns_spoon.jpg", 1920, 1080, "filter:brightness(.38) contrast(1.05)"), 0, 0)
-                   + a(f'<div style="font:400 44px ISerif;color:#E8DCC2;width:1300px">It lasts. It\'s worth a lot for its size. Everyone agrees to want it.</div>', 120, 300)
-                   + a(f'<div style="background:{SIG};color:{INK};padding:18px 30px;font:400 72px/1.05 Anton;width:1300px">WHAT ARE WE TREATING AS MONEY TODAY THAT PEOPLE WILL ONE DAY FIND JUST AS STRANGE?</div>', 120, 470),
+                   + A(f'<div style="font:400 44px ISerif;color:#E8DCC2;width:1300px">It lasts. It\'s worth a lot for its size. Everyone agrees to want it.</div>', 120, 300, "fade .05 .22")
+                   + A(f'<div style="background:{SIG};color:{INK};padding:18px 30px;font:400 72px/1.05 Anton;width:1300px">WHAT ARE WE TREATING AS MONEY TODAY THAT PEOPLE WILL ONE DAY FIND JUST AS STRANGE?</div>', 120, 470, "wipe .35 .6"),
                    "#000", "PRINT FACTS · SOURCES IN THE DESCRIPTION · PHOTO: PIXABAY", dark=True))
 
 # ---- 6: the globe (route round Africa) -------------------------------------------------------------------------------

diff --git a/creatorforge/films/pepper-money-2026-11-15/comedy.py b/creatorforge/films/pepper-money-2026-11-15/comedy.py
@@ -6,9 +6,9 @@ SIG, RED, INK = "#F7D046", "#D93829", "#1A1A1A"
 FONT = "<style>@font-face{font-family:PlexC;src:url(/fonts/ibm-plex-mono-latin-500-normal.woff2)}@font-face{font-family:CaveatC;src:url(/fonts/caveat-latin-700-normal.woff2)}</style>"
 
 
-def tag(text, x, y, rot=-1.5, dark=False):
+def tag(text, x, y, rot=-1.5, dark=False, anim="snap .85 .85"):
     bg, fg = ("#1A1A1A", "#F4EFE6") if not dark else ("#F4EFE6", "#1A1A1A")
-    return (f'<div style="position:absolute;left:{x}px;top:{y}px;z-index:70;background:{bg};color:{fg};border:2px solid {fg};padding:8px 14px;'
+    return (f'<div data-anim="{anim}" style="position:absolute;left:{x}px;top:{y}px;z-index:70;background:{bg};color:{fg};border:2px solid {fg};padding:8px 14px;'
             f'font:500 20px PlexC;letter-spacing:4px;transform:rotate({rot}deg);box-shadow:6px 6px 0 rgba(0,0,0,.35);white-space:nowrap">{text}</div>')
 
 
@@ -20,21 +20,21 @@ def inject(src, dst, overlay, extra_body_css=""):
     (H / f"{dst}.html").write_text(s)
 
 
-inject("02_ransom", "c02_ransom", tag("ITEM 5 · FILED UNDER: SEASONING", 250, 790))
+inject("02_ransom", "c02_ransom", tag("ITEM 5 · FILED UNDER: SEASONING", 250, 790, anim="snap .9 .9"))
 # smash-zoom receipt: the same page scaled 1.32 around the pepper line, red ink circle
 s = (H / "02_ransom.html").read_text()
 s = s.replace("</style>", "</style><style>body>*:not(script){}</style>", 1)
 s = s.replace("<body>", '<body><div style="position:absolute;inset:0;transform:scale(1.32);transform-origin:560px 640px">', 1)
 s = s.replace("</body>", "</div>" + FONT + tag("RECEIPT · ZOSIMUS 5.41", 1260, 120) + "</body>", 1)
 (H / "c02b_receipt.html").write_text(s)
-trousers = ('<svg style="position:absolute;left:1240px;top:110px;z-index:68;filter:drop-shadow(10px 12px 0 rgba(0,0,0,.8))" width="260" height="330" viewBox="0 0 120 150">'
+trousers = ('<svg data-anim="pop .5 .58" style="position:absolute;left:1240px;top:110px;z-index:68;filter:drop-shadow(10px 12px 0 rgba(0,0,0,.8))" width="260" height="330" viewBox="0 0 120 150">'
             '<path d="M20 6 L100 6 L104 146 L70 146 L60 56 L50 146 L16 146 Z" fill="#C0392B" stroke="#FFFFFF" stroke-width="4" stroke-linejoin="round"/>'
             '<rect x="20" y="6" width="80" height="12" fill="#8E2A20" stroke="#FFFFFF" stroke-width="3"/></svg>')
-inject("11_rents", "c11_rents", trousers + tag("LINE ITEM 4 · NO FURTHER DETAILS", 1060, 470, 2)
-       + f'<div style="position:absolute;left:1090px;top:522px;z-index:70;font:700 38px CaveatC;color:{RED};transform:rotate(-3deg)">"Nobody explains the trousers. I checked."</div>'
-       + '<div style="position:absolute;left:1250px;top:86px;z-index:69;font:500 13px PlexC;color:#555">ILLUSTRATION</div>')
+inject("11_rents", "c11_rents", trousers + tag("LINE ITEM 4 · NO FURTHER DETAILS", 1060, 470, 2, anim="snap .62 .62")
+       + f'<div data-anim="fade .7 .8" style="position:absolute;left:1090px;top:522px;z-index:70;font:700 38px CaveatC;color:{RED};transform:rotate(-3deg)">"Nobody explains the trousers. I checked."</div>'
+       + '<div data-anim="fade .5 .58" style="position:absolute;left:1250px;top:86px;z-index:69;font:500 13px PlexC;color:#555">ILLUSTRATION</div>')
 inject("r3v", "c_r3v", tag("DEPARTMENT OF PEPPER (APPROX.)", 120, 1000 - 70, -2))
 inject("s3_c", "c_s3_c", tag("“60× THE COST” · STATUS: UNVERIFIED BRAG", 90, 760, -2, True))
-inject("13_markup", "c13_markup", tag("MARKUP · EVERY RUNNER CHARGES FOR THE BATON", 110, 960, -1.5))
-inject("14_fall", "c14_fall", tag("MOST BRITISH SENTENCE EVER SPOKEN IN COURT", 1040, 760, 1.5))
+inject("13_markup", "c13_markup", tag("MARKUP · EVERY RUNNER CHARGES FOR THE BATON", 110, 960, -1.5, anim="snap .88 .88"))
+inject("14_fall", "c14_fall", tag("MOST BRITISH SENTENCE EVER SPOKEN IN COURT", 1040, 760, 1.5, anim="snap .82 .82"))
 print("ok")

diff --git a/creatorforge/films/pepper-money-2026-11-15/shoot_http.py b/creatorforge/films/pepper-money-2026-11-15/shoot_http.py
@@ -20,7 +20,9 @@ with sync_playwright() as p:
     pg = b.new_page(viewport={"width": 1920, "height": 1080})
     errs = []; pg.on("pageerror", lambda e: errs.append(str(e))); pg.on("console", lambda m: m.type == "error" and errs.append(m.text))
     for n in names:
-        pg.goto(f"http://127.0.0.1:8765/html/{n}.html"); pg.wait_for_function("window.READY===true", timeout=300000); pg.wait_for_timeout(400)
-        pg.screenshot(path=str(D / "png" / f"{n}.jpg"), type="jpeg", quality=92); print("shot", n, flush=True)
+        base, _, t = n.partition("@")  # "06_pliny@0.4" shoots that page at moment t of its timeline into png/anim/
+        out = D / "png" / (f"anim/{base}@{float(t):.2f}.jpg" if t else f"{n}.jpg"); out.parent.mkdir(exist_ok=True)
+        pg.goto(f"http://127.0.0.1:8765/html/{base}.html" + (f"?t={t}" if t else "")); pg.wait_for_function("window.READY===true", timeout=300000); pg.wait_for_timeout(400)
+        pg.screenshot(path=str(out), type="jpeg", quality=88); print("shot", n, flush=True)
     print("errors:", errs[:5]); b.close()
 srv.shutdown()
